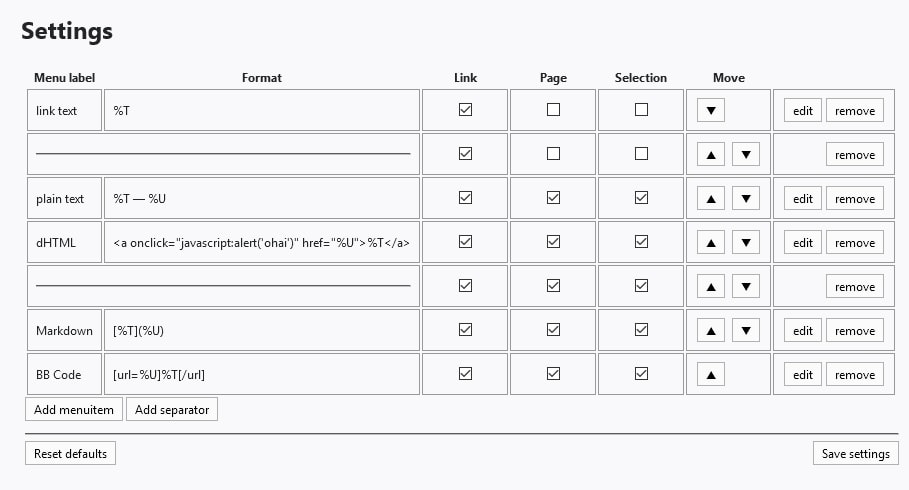
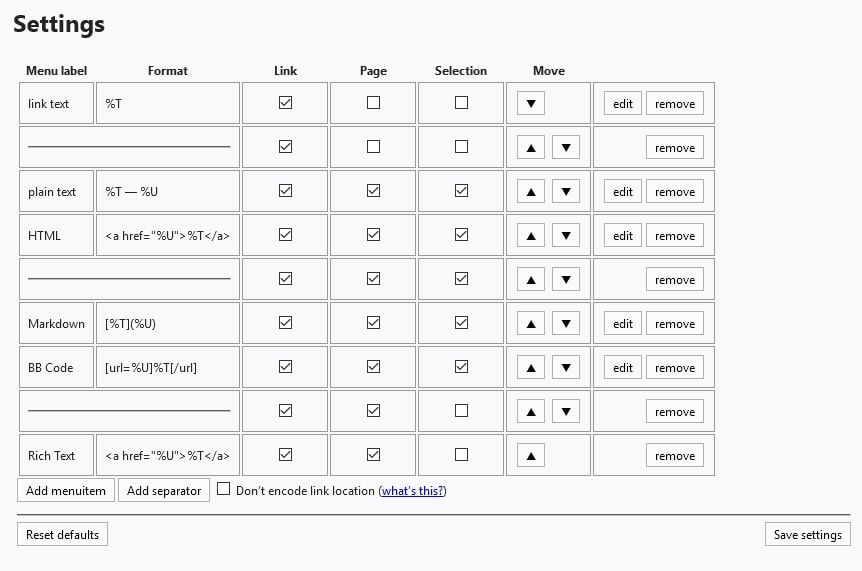
1.4.5 - Add option to disable encoding non-ANSI characters in URLs

Changed region(s): [[0.0, 0.0306, 0.9954, 0.949]]

diff --git a/docs/index.html b/docs/index.html
@@ -23,6 +23,10 @@
           <title>book</title>
           <path d="M25.609 7.469c0.391 0.562 0.5 1.297 0.281 2.016l-4.297 14.156c-0.391 1.328-1.766 2.359-3.109 2.359h-14.422c-1.594 0-3.297-1.266-3.875-2.891-0.25-0.703-0.25-1.391-0.031-1.984 0.031-0.313 0.094-0.625 0.109-1 0.016-0.25-0.125-0.453-0.094-0.641 0.063-0.375 0.391-0.641 0.641-1.062 0.469-0.781 1-2.047 1.172-2.859 0.078-0.297-0.078-0.641 0-0.906 0.078-0.297 0.375-0.516 0.531-0.797 0.422-0.719 0.969-2.109 1.047-2.844 0.031-0.328-0.125-0.688-0.031-0.938 0.109-0.359 0.453-0.516 0.688-0.828 0.375-0.516 1-2 1.094-2.828 0.031-0.266-0.125-0.531-0.078-0.812 0.063-0.297 0.438-0.609 0.688-0.969 0.656-0.969 0.781-3.109 2.766-2.547l-0.016 0.047c0.266-0.063 0.531-0.141 0.797-0.141h11.891c0.734 0 1.391 0.328 1.781 0.875 0.406 0.562 0.5 1.297 0.281 2.031l-4.281 14.156c-0.734 2.406-1.141 2.938-3.125 2.938h-13.578c-0.203 0-0.453 0.047-0.594 0.234-0.125 0.187-0.141 0.328-0.016 0.672 0.313 0.906 1.391 1.094 2.25 1.094h14.422c0.578 0 1.25-0.328 1.422-0.891l4.688-15.422c0.094-0.297 0.094-0.609 0.078-0.891 0.359 0.141 0.688 0.359 0.922 0.672zM8.984 7.5c-0.094 0.281 0.063 0.5 0.344 0.5h9.5c0.266 0 0.562-0.219 0.656-0.5l0.328-1c0.094-0.281-0.063-0.5-0.344-0.5h-9.5c-0.266 0-0.562 0.219-0.656 0.5zM7.688 11.5c-0.094 0.281 0.063 0.5 0.344 0.5h9.5c0.266 0 0.562-0.219 0.656-0.5l0.328-1c0.094-0.281-0.063-0.5-0.344-0.5h-9.5c-0.266 0-0.562 0.219-0.656 0.5z"></path>
         </symbol>
+        <symbol id="icon-cogs" viewBox="0 0 30 28">
+          <title>cogs</title>
+          <path d="M14 14c0-2.203-1.797-4-4-4s-4 1.797-4 4 1.797 4 4 4 4-1.797 4-4zM26 22c0-1.094-0.906-2-2-2s-2 0.906-2 2c0 1.109 0.906 2 2 2 1.109 0 2-0.906 2-2zM26 6c0-1.094-0.906-2-2-2s-2 0.906-2 2c0 1.109 0.906 2 2 2 1.109 0 2-0.906 2-2zM20 12.578v2.891c0 0.203-0.156 0.438-0.359 0.469l-2.422 0.375c-0.125 0.406-0.297 0.797-0.5 1.188 0.438 0.625 0.906 1.203 1.406 1.797 0.063 0.094 0.109 0.187 0.109 0.313 0 0.109-0.031 0.219-0.109 0.297-0.313 0.422-2.063 2.328-2.516 2.328-0.125 0-0.234-0.047-0.328-0.109l-1.797-1.406c-0.391 0.203-0.781 0.359-1.203 0.484-0.078 0.797-0.156 1.656-0.359 2.422-0.063 0.219-0.25 0.375-0.469 0.375h-2.906c-0.219 0-0.438-0.172-0.469-0.391l-0.359-2.391c-0.406-0.125-0.797-0.297-1.172-0.484l-1.844 1.391c-0.078 0.078-0.203 0.109-0.313 0.109-0.125 0-0.234-0.047-0.328-0.125-0.406-0.375-2.25-2.047-2.25-2.5 0-0.109 0.047-0.203 0.109-0.297 0.453-0.594 0.922-1.172 1.375-1.781-0.219-0.422-0.406-0.844-0.547-1.281l-2.375-0.375c-0.219-0.031-0.375-0.234-0.375-0.453v-2.891c0-0.203 0.156-0.438 0.359-0.469l2.422-0.375c0.125-0.406 0.297-0.797 0.5-1.188-0.438-0.625-0.906-1.203-1.406-1.797-0.063-0.094-0.109-0.203-0.109-0.313s0.031-0.219 0.109-0.313c0.313-0.422 2.063-2.312 2.516-2.312 0.125 0 0.234 0.047 0.328 0.109l1.797 1.406c0.391-0.203 0.781-0.359 1.203-0.5 0.078-0.781 0.156-1.641 0.359-2.406 0.063-0.219 0.25-0.375 0.469-0.375h2.906c0.219 0 0.438 0.172 0.469 0.391l0.359 2.391c0.406 0.125 0.797 0.297 1.172 0.484l1.844-1.391c0.094-0.078 0.203-0.109 0.313-0.109 0.125 0 0.234 0.047 0.328 0.125 0.406 0.375 2.25 2.063 2.25 2.5 0 0.109-0.047 0.203-0.109 0.297-0.453 0.609-0.922 1.172-1.359 1.781 0.203 0.422 0.391 0.844 0.531 1.281l2.375 0.359c0.219 0.047 0.375 0.25 0.375 0.469zM30 20.906v2.188c0 0.234-2.016 0.453-2.328 0.484-0.125 0.297-0.281 0.562-0.469 0.812 0.141 0.313 0.797 1.875 0.797 2.156 0 0.047-0.016 0.078-0.063 0.109-0.187 0.109-1.859 1.109-1.937 1.109-0.203 0-1.375-1.563-1.531-1.797-0.156 0.016-0.313 0.031-0.469 0.031s-0.313-0.016-0.469-0.031c-0.156 0.234-1.328 1.797-1.531 1.797-0.078 0-1.75-1-1.937-1.109-0.047-0.031-0.063-0.078-0.063-0.109 0-0.266 0.656-1.844 0.797-2.156-0.187-0.25-0.344-0.516-0.469-0.812-0.313-0.031-2.328-0.25-2.328-0.484v-2.188c0-0.234 2.016-0.453 2.328-0.484 0.125-0.281 0.281-0.562 0.469-0.812-0.141-0.313-0.797-1.891-0.797-2.156 0-0.031 0.016-0.078 0.063-0.109 0.187-0.094 1.859-1.094 1.937-1.094 0.203 0 1.375 1.547 1.531 1.781 0.156-0.016 0.313-0.031 0.469-0.031s0.313 0.016 0.469 0.031c0.438-0.609 0.906-1.219 1.437-1.75l0.094-0.031c0.078 0 1.75 0.984 1.937 1.094 0.047 0.031 0.063 0.078 0.063 0.109 0 0.281-0.656 1.844-0.797 2.156 0.187 0.25 0.344 0.531 0.469 0.812 0.313 0.031 2.328 0.25 2.328 0.484zM30 4.906v2.187c0 0.234-2.016 0.453-2.328 0.484-0.125 0.297-0.281 0.562-0.469 0.812 0.141 0.313 0.797 1.875 0.797 2.156 0 0.047-0.016 0.078-0.063 0.109-0.187 0.109-1.859 1.109-1.937 1.109-0.203 0-1.375-1.563-1.531-1.797-0.156 0.016-0.313 0.031-0.469 0.031s-0.313-0.016-0.469-0.031c-0.156 0.234-1.328 1.797-1.531 1.797-0.078 0-1.75-1-1.937-1.109-0.047-0.031-0.063-0.078-0.063-0.109 0-0.266 0.656-1.844 0.797-2.156-0.187-0.25-0.344-0.516-0.469-0.812-0.313-0.031-2.328-0.25-2.328-0.484v-2.188c0-0.234 2.016-0.453 2.328-0.484 0.125-0.281 0.281-0.562 0.469-0.812-0.141-0.313-0.797-1.891-0.797-2.156 0-0.031 0.016-0.078 0.063-0.109 0.187-0.094 1.859-1.094 1.937-1.094 0.203 0 1.375 1.547 1.531 1.781 0.156-0.016 0.313-0.031 0.469-0.031s0.313 0.016 0.469 0.031c0.438-0.609 0.906-1.219 1.437-1.75l0.094-0.031c0.078 0 1.75 0.984 1.937 1.094 0.047 0.031 0.063 0.078 0.063 0.109 0 0.281-0.656 1.844-0.797 2.156 0.187 0.25 0.344 0.531 0.469 0.812 0.313 0.031 2.328 0.25 2.328 0.484z"></path>
+        </symbol>
         <symbol id="icon-edit" viewBox="0 0 28 28">
           <title>edit</title>
           <path d="M13.875 18.5l1.813-1.813-2.375-2.375-1.813 1.813v0.875h1.5v1.5h0.875zM20.75 7.25c-0.141-0.141-0.375-0.125-0.516 0.016l-5.469 5.469c-0.141 0.141-0.156 0.375-0.016 0.516s0.375 0.125 0.516-0.016l5.469-5.469c0.141-0.141 0.156-0.375 0.016-0.516zM22 16.531v2.969c0 2.484-2.016 4.5-4.5 4.5h-13c-2.484 0-4.5-2.016-4.5-4.5v-13c0-2.484 2.016-4.5 4.5-4.5h13c0.625 0 1.25 0.125 1.828 0.391 0.141 0.063 0.25 0.203 0.281 0.359 0.031 0.172-0.016 0.328-0.141 0.453l-0.766 0.766c-0.141 0.141-0.328 0.187-0.5 0.125-0.234-0.063-0.469-0.094-0.703-0.094h-13c-1.375 0-2.5 1.125-2.5 2.5v13c0 1.375 1.125 2.5 2.5 2.5h13c1.375 0 2.5-1.125 2.5-2.5v-1.969c0-0.125 0.047-0.25 0.141-0.344l1-1c0.156-0.156 0.359-0.187 0.547-0.109s0.313 0.25 0.313 0.453zM20.5 5l4.5 4.5-10.5 10.5h-4.5v-4.5zM27.438 7.063l-1.437 1.437-4.5-4.5 1.437-1.437c0.578-0.578 1.547-0.578 2.125 0l2.375 2.375c0.578 0.578 0.578 1.547 0 2.125z"></path>
@@ -53,11 +57,11 @@
         <div class="meta">
           <h3 class="meta__title">
             <img src="images/paint-brush.svg" alt="" />
-            <a href="https://addons.mozilla.org/en-US/firefox/addon/link-text-and-location-copier/">Download <b>Link Text and Location Copier</b> 1.4.4</a>
+            <a href="https://addons.mozilla.org/en-US/firefox/addon/link-text-and-location-copier/">Download <b>Link Text and Location Copier</b> 1.4.5</a>
           </h3>
           <div class="meta__content">
             <ul class="meta__data">
-              <li>Released on November 21st, 2017</li>
+              <li>Released on November 30th, 2017</li>
               <li><strong>Requires:</strong> Firefox 56+</li>
             </ul>
 
@@ -69,6 +73,10 @@
               <li>
                 <svg class="icon icon-book"><use xlink:href="#icon-book"></use></svg>
                 <a href="#docs">Custom Format Documentation</a>
+              </li>
+              <li>
+                <svg class="icon icon-cogs"><use xlink:href="#icon-cogs"></use></svg>
+                <a href="#options">Options</a>
               </li>
               <li>
                 <svg class="icon icon-edit"><use xlink:href="#icon-edit"></use></svg>
@@ -137,6 +145,7 @@
       <article id="changelog">
         <h2><svg class="icon icon-edit"><use xlink:href="#icon-edit"></use></svg> Changelog</h2>
         <ul class="changelog">
+          <li><span class="changelog__version">1.4.5</span><time class="changelog__pubdate">2017-11-30</time><span class="changelog__desc">Add option to disable encoding non-ANSI characters in link location.</span></li>
           <li><span class="changelog__version">1.4.4</span><time class="changelog__pubdate">2017-11-21</time><span class="changelog__desc">Fix broken Cyrillic links by changing the order in which the templates get parsed.</span></li>
           <li><span class="changelog__version">1.4.3</span><time class="changelog__pubdate">2017-11-17</time><span class="changelog__desc">Provisional support for Image Location added. Only works when right-clicking on a linked image, otherwise returns an empty string.</span></li>
           <li><span class="changelog__version">1.4.2</span><time class="changelog__pubdate">2017-11-15</time><span class="changelog__desc">Added support for newline, tab and local time variables in templates. Variables can now be used multiple times in a template.</span></li>
@@ -151,6 +160,14 @@
           <li><span class="changelog__version">1.0.0</span><time class="changelog__pubdate">2017-09-11</time><span class="changelog__desc">Initial release.</span></li>
         </ul>
         <p>Note: Not all old versions are available on <abbr title="Addons.Mozilla.Org">AMO</abbr>. Versions with stupid bugs are disabled.</p>
+      </article>
+
+      <article>
+        <h2>Known issues</h2>
+        <ul>
+        <li><a href="https://bugzilla.mozilla.org/show_bug.cgi?id=1343236">Before Firefox 56</a> the link title will always be “undefined”.</a>.</li>
+        <li>If you have set the about:config preference <code>dom.event.clipboardevents.enabled</code> to <b>false</b>, this add-on will not work.</li>
+        </ul>
       </article>
 
       <article id="docs">
@@ -210,17 +227,30 @@
         </ol>
       </article>
 
+      <article id="options">
+        <h2><svg class="icon icon-cogs"><use xlink:href="#icon-cogs"></use></svg> Options</h2>
+
+        <ul>
+          <li id="option-urls">
+            <h3>Don’t encode link location</h3>
+            <p>Firefox encodes non-ANSI characters (Cyrillic, Greek, Vietnamese, what-have-you) in <a href="https://developer.mozilla.org/en-US/docs/Glossary/URL">URL</a>s by default when copying. Links like <code>https://ru.wikipedia.org/wiki/Браузер</code> get turned into <code>https://ru.wikipedia.org/wiki/%D0%91%D1%80%D0%B0%D1%83%D0%B7%D0%B5%D1%80</code> when pasted.</p>
+            <p>To prevent this, turn this feature on and save settings.</p>
+          </li>
+        </ul>
+      </article>
+
       <article>
         <h2>Credits / Acknowledgements</h2>
         <ul>
           <li>Totally inspired by/based on Jonah Bishop’s <a href="https://www.borngeek.com/firefox/colt/">CoLT</a>. (<a href="https://github.com/jgbishop/colt/blob/master/LICENSE.txt">license</a>)</li>
           <li>The Copy-to-clipboard functionality is lifted from Firefox’s <a href="https://github.com/mdn/webextensions-examples/tree/master/context-menu-copy-link-with-types">context-menu-copy-link-with-types</a> example. (<a href="https://github.com/mdn/webextensions-examples/blob/master/LICENSE">license</a>)</li>
           <li>The <a href="https://www.flaticon.com/free-icon/paint-brush_178388">Paint Brush Icon</a> made by <a href="https://flat-icons.com/">Flat Icons</a> is licensed under <a href="http://creativecommons.org/licenses/by/3.0/">CC 3.0 BY</a></li>
+          <li>The icons on this page are from <a href="http://fontawesome.io">Font Awesome</a>, subsetted through the <a href="https://icomoon.io/">IcoMoon App</a>.
         </ul>
       </article>
 
       <article id="contact">
-        <h2>Contact</h2>
+        <h2><svg class="icon icon-envelope"><use xlink:href="#icon-envelope"></use></svg> Contact</h2>
         <p>If you have a feature requests or bug report, if you want to help out with translations, or if you just want to get in touch, here are a few options:</p>
         <ul>
           <li>

diff --git a/docs/style.css b/docs/style.css
@@ -17,7 +17,7 @@ main, header, footer {
   max-width: 960px;
   margin: 0 auto;
 }
-h2, h3, p {
+h2, p {
   margin-bottom: 1.5rem;
 }
 article {
@@ -226,20 +226,12 @@ table > caption::before {
   fill: currentColor;
   vertical-align: text-top;
 }
-/* ==========================================
-Single-colored icons can be modified like so:
-.icon-name {
-  font-size: 32px;
-  color: red;
-}
-========================================== */
-
 .icon-twitter     { width: 0.9287109375em; }
 .icon-image       { width: 1.0712890625em; }
 .icon-book        { width: 0.9306640625em; }
 .icon-edit        { width: 1.0009765625em; }
 .icon-github-alt  { width: 0.9287109375em; }
-
+.icon-cogs        { width: 1.0714285714285714em; }
 
 /* http://codepo8.github.io/css-fork-on-github-ribbon/ */
 .forkongithub {

diff --git a/link-text-location-copier/linktextlocationcopier.js b/link-text-location-copier/linktextlocationcopier.js
@@ -61,7 +61,7 @@ const gettingStoredSettings = browser.storage.local.get();
 gettingStoredSettings.then(checkStoredSettings, onError);
 
 browser.contextMenus.onClicked.addListener(function(info, tab) {
-
+//  console.log(info)
   let text,
       link,
       outputtext,
@@ -84,6 +84,8 @@ browser.contextMenus.onClicked.addListener(function(info, tab) {
     text = info.selectionText;
   }
 
+  // decoded URIs for non-ANSI links when option is toggled
+  if (_addonSettings.useDecodedURI === true) { link = window.decodeURIComponent(link) }
   // Always HTML-escape external input to avoid XSS
   if (clickedItem.outputAsHTML) { link = escapeHTML(link) }
 

diff --git a/link-text-location-copier/options/options.js b/link-text-location-copier/options/options.js
@@ -12,6 +12,11 @@ function checkStoredSettings(storedSettings) {
   } else {
     _settings = storedSettings;
   }
+
+  if (_settings.useDecodedURI) {
+    document.getElementById('decodedURI').checked = true;
+  }
+
   buildCustomFormatTable();
 }
 
@@ -32,6 +37,12 @@ function saveOptions(event) {
     });
     _settings.menuItems[elem.dataset.n].contexts = activeContexts;
   });
+
+  if (document.getElementById('decodedURI').checked === true) {
+    _settings.useDecodedURI = true;
+  } else {
+    _settings.useDecodedURI = false;
+  }
 
   let savingOptions = browser.storage.local.set(_settings);
   event.preventDefault();

diff --git a/docs/testpage.html b/docs/testpage.html
@@ -21,6 +21,8 @@
         <a href="http://example.com/testlink-with-(parentheses)">Link with parentheses</a> (might be troublesome with Markdown)
       </li>
       <li>
+        <a href="https://ru.wikipedia.org/wiki/Заглавная_страница">Заглавная страница</a> <a href="https://ko.wikipedia.org/wiki/위키백과:대문">위키백과:대문</a> (test links for non-ANSI characters)
+      <li>
         <a href="https://www.flaticon.com/free-icon/paint-brush_178388"><img src="images/paint-brush.png" alt="Addon logo (alt linked image)" /></a> (linked image)
       </li>
       <li>

diff --git a/link-text-location-copier/options/index.html b/link-text-location-copier/options/index.html
@@ -83,6 +83,10 @@
 
       <button class="browser-style" type="button" id="addCustomFormat">Add menuitem</button>
       <button class="browser-style" type="button" id="addSeparator">Add separator</button>
+      <span class="checkboxItem browser-style">
+        <label><input type="checkbox" id="decodedURI" class="browser-style"/> Don’t encode link location</label>
+        (<a href="https://evilnickname.github.io/link-text-location-copier/#option-urls">what’s this?</a>)
+      </span>
 
       <hr />
       <div class="buttons">
